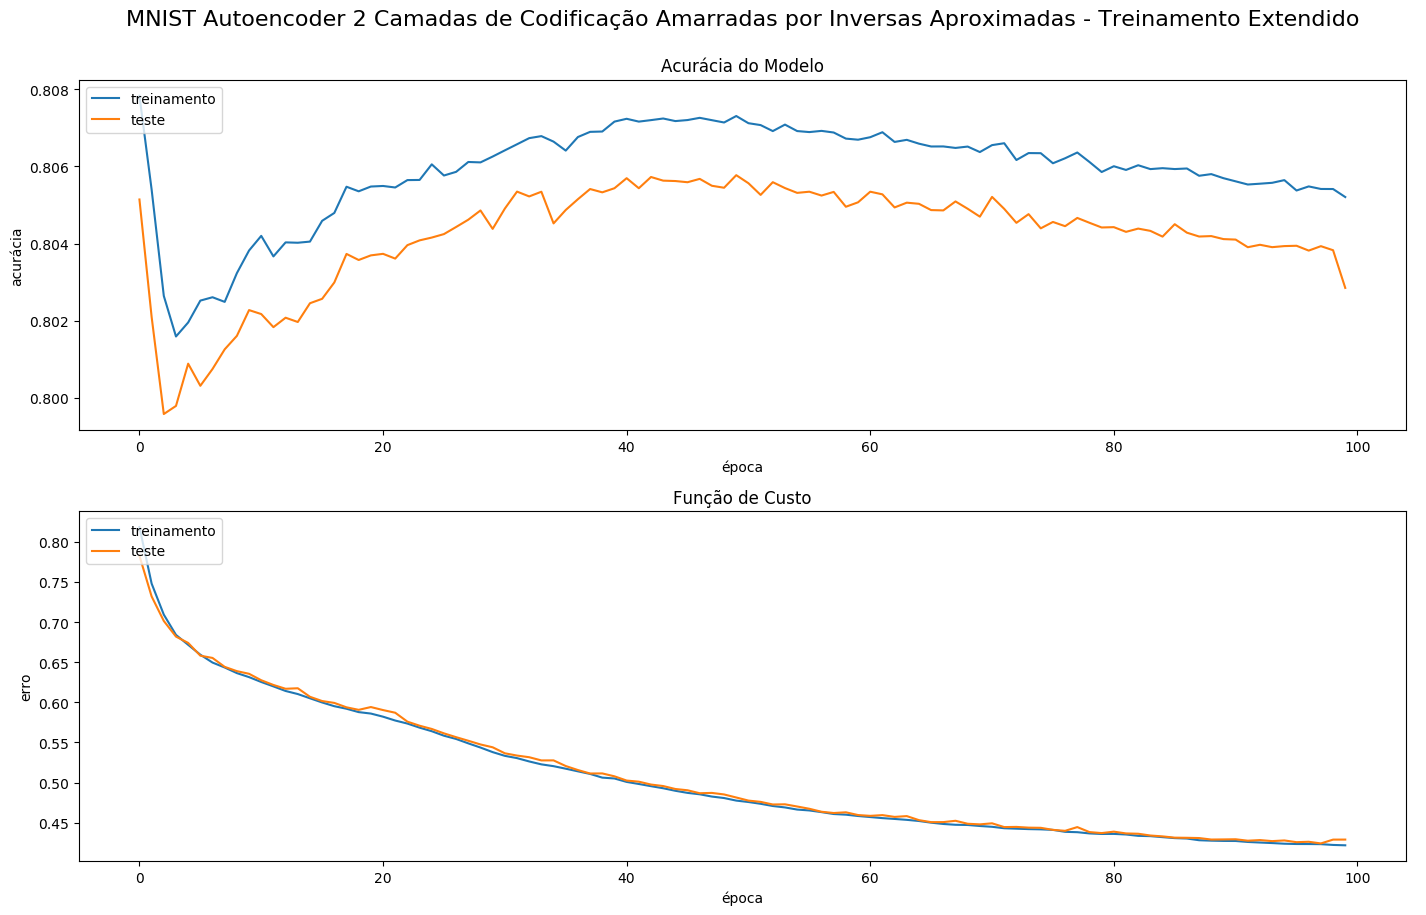
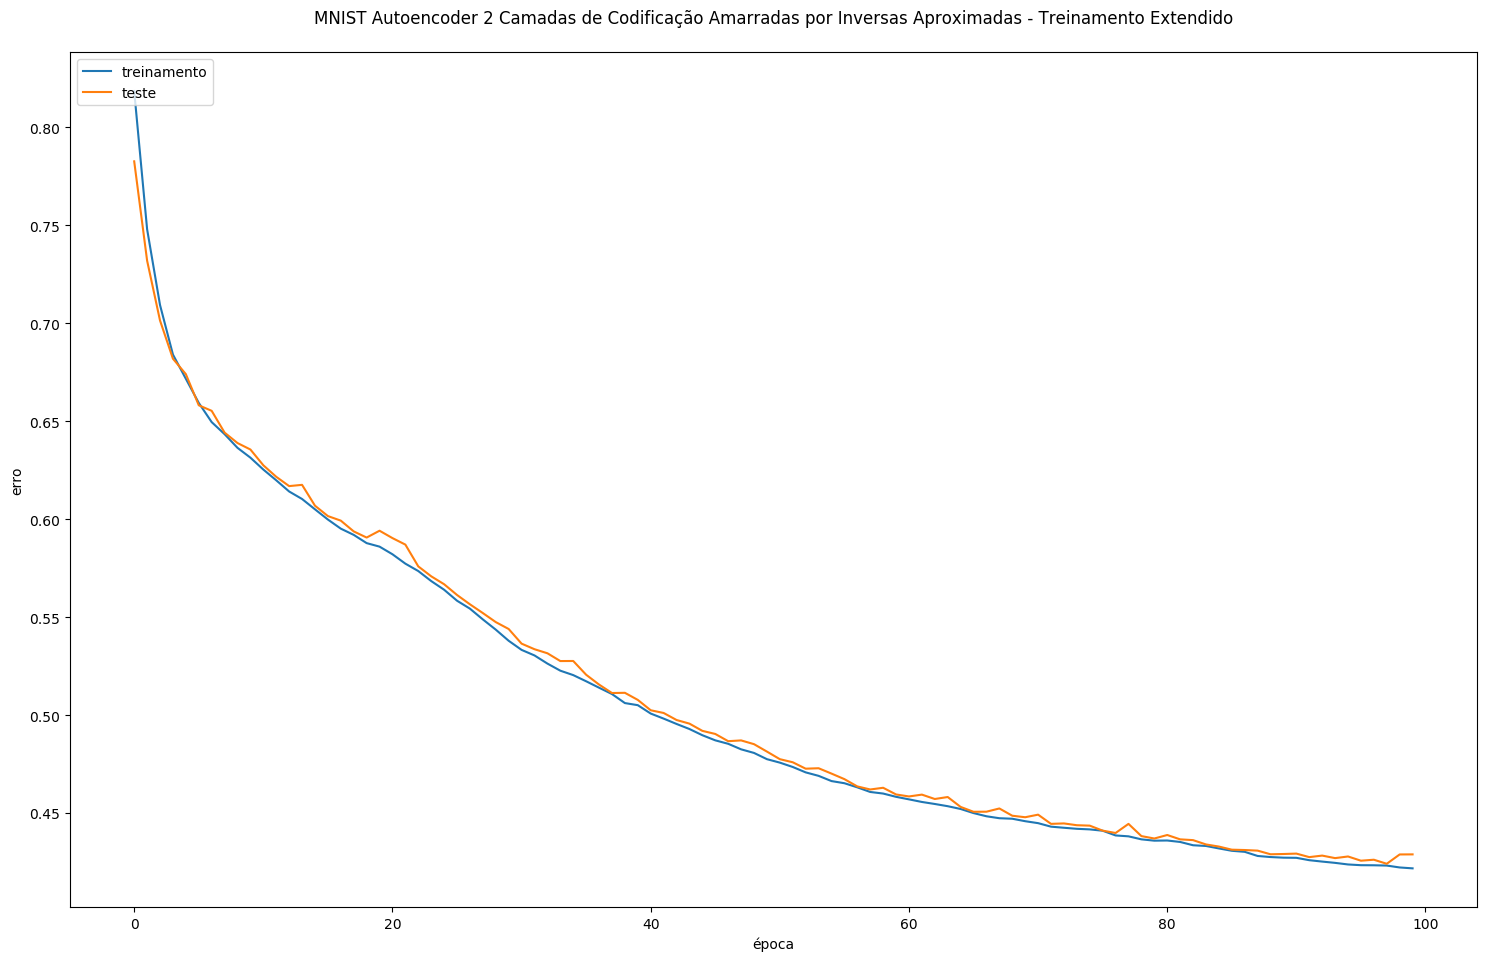
minor changes

diff --git a/main2.py b/main2.py
@@ -55,7 +55,7 @@ def test_autoencoder(tag, x_train, x_test):
 	decoded = Dense(784, activation='relu')(decoded)
 
 	autoencoder = Model(input_img, decoded)
-	autoencoder.compile(optimizer='adadelta', loss='binary_crossentropy', metrics = ['acc'])
+	autoencoder.compile(optimizer='adadelta', loss='binary_crossentropy')
 
 	##########
 
@@ -118,7 +118,7 @@ def test_conv_autoencoder(tag, x_train, x_test):
 	autoencoder = Model(input_img, decoded)
 
 	autoencoder.summary()
-	autoencoder.compile(optimizer='adadelta', loss='binary_crossentropy', metrics = ['acc'])
+	autoencoder.compile(optimizer='adadelta', loss='binary_crossentropy')
 
 	##########
 
@@ -199,7 +199,7 @@ def test_tied_autoencoder(tag, x_train, x_test):
 	decoded = TiedDenseLayer(output_dim = 784, tied_to = encoding_layer_1, tie_type = 'transpose', activation='relu')(decoded)
 
 	autoencoder = Model(input_img, decoded)
-	autoencoder.compile(optimizer='adadelta', loss='binary_crossentropy', metrics = ['acc'])
+	autoencoder.compile(optimizer='adadelta', loss='binary_crossentropy')
 
 	##########
 
@@ -260,7 +260,7 @@ def test_inverse_tied_autoencoder(tag, x_train, x_test):
 	decoded = TiedDenseLayer(output_dim = 784, tied_to = encoding_layer_1, tie_type = 'inverse', activation='relu')(decoded)
 
 	autoencoder = Model(input_img, decoded)
-	autoencoder.compile(optimizer='adadelta', loss='binary_crossentropy', metrics = ['acc'])
+	autoencoder.compile(optimizer='adadelta', loss='binary_crossentropy')
 
 	##########
 
@@ -302,20 +302,31 @@ def test_inverse_tied_autoencoder(tag, x_train, x_test):
 
 
 def test_tied_conv_autoencoder():
-	print("----- test_conv_autoencoder -----")
-	model_id = 'inverse_tied_transpose_1_128'
+	print("\n\n\n----- test_conv_autoencoder -----\n\n\n")
 
-	input_img = Input(shape=(784,))
+	model_id = 'conv'
 
-	encoding_layer = Dense(128, activation='relu')
-	encoded = encoding_layer(input_img)
-	# encoded = Dense(128, activation='relu')(encoded)
+	input_img = Input(shape=(28,28,1))
 
-	decoded = TiedDenseLayer(output_dim = 784, tied_to = encoding_layer, tie_type = 'inverse', activation='relu')(encoded)
-	# decoded = Dense(784, activation='relu')(decoded)
+	encoded = Conv2D(16, (3, 3), activation='relu', padding='same')(input_img)
+	encoded = Flatten()(encoded)
+	encoded = Dense(256, activation='relu')(encoded)
+	encoded = Dense(128, activation='relu')(encoded)
+
+	#####
+	
+	decoded = Dense(256, activation='relu')(encoded)
+	decoded = Dense(12544, activation='relu')(decoded)
+	decoded = Reshape((28,28,16))(decoded) # -1 is used to infer the size of the batch
+	decoded = Conv2D(16, (3, 3), activation='relu', padding='same')(decoded)
+	decoded = Conv2D(1, (3, 3), activation='sigmoid', padding='same')(decoded)
+	
+	#####
 
 	autoencoder = Model(input_img, decoded)
-	autoencoder.compile(optimizer='adadelta', loss='binary_crossentropy', metrics = ['acc'])
+
+	autoencoder.summary()
+	autoencoder.compile(optimizer='adadelta', loss='binary_crossentropy')
 
 	##########
 
@@ -324,25 +335,19 @@ def test_tied_conv_autoencoder():
 	##########
 	encoded_input = Input(shape=(128,))
 
-	deco = autoencoder.layers[-1](encoded_input)
-	# deco = autoencoder.layers[-1](deco)
+	deco = autoencoder.layers[-5](encoded_input)
+	deco = autoencoder.layers[-4](deco)
+	deco = autoencoder.layers[-3](deco)
+	deco = autoencoder.layers[-2](deco)
+	deco = autoencoder.layers[-1](deco)
 	decoder = Model(encoded_input, deco)
 
-	##########
-
-	flat_x_train, flat_x_test = flatten_input(x_train, x_test)
-
-	# csv_logger = CSVLogger('autoencoder_results/' + tag + '_normal_training.log')
-	# tb_callback = TensorBoard(log_dir='./tensorboard_logs/' + tag + '_normal_training',
-	# 							histogram_freq=1, write_graph=True, write_images=False)
-
-	history = autoencoder.fit(flat_x_train, flat_x_train,
+	history = autoencoder.fit(x_train, x_train,
 				epochs=50,
 				batch_size=256,
 				shuffle=True,
-				validation_data=(flat_x_test, flat_x_test)) # callbacks=[csv_logger, tb_callback]
+				validation_data=(x_test, x_test))
 
-	
 	autoencoder.save('autoencoder_results/' + model_id + '/' + tag + '_autoencoder.h5')
 	encoder.save('autoencoder_results/' + model_id + '/' + tag + '_encoder.h5')
 	decoder.save('autoencoder_results/' + model_id + '/' + tag + '_decoder.h5')
@@ -350,7 +355,7 @@ def test_tied_conv_autoencoder():
 	with open('autoencoder_results/' + model_id + '/' + tag + "_history.pckl", 'wb') as pckl:
 		pickle.dump(history.history, pckl)
 	
-	plot_loss_and_accuracy("MNIST Autoencoder 1 Camada de Codificação Amarrada por Inversas Aproximadas", history.history)
+	plot_loss_and_accuracy("MNIST Autoencoder Convolucional sem Amarração", history.history)
 	save_encoded_values(tag + '_' + model_id, preprocessed_x_train=flat_x_train,
 						trained_encoder=encoder, preprocessed_x_test=flat_x_test)
 
@@ -367,25 +372,11 @@ def plot_loss_and_accuracy(tag, history):
 	# history = pickle.load(open('autoencoder_results/normal/mnist_history.pckl', 'rb'))
 
 	fig = plt.figure(figsize=(15.0, 10.0)) # 1,
-	plt.title(tag + '\n\n', fontsize=16)
-	plt.axis('off')
-	# list all data in history
-	print(history.keys())
-	# summarize history for accuracy
-	sp = fig.add_subplot(211)
-	
-	sp.plot(history['acc'])
-	sp.plot(history['val_acc'])
-	sp.title.set_text('Acurácia do Modelo')
-	sp.set_ylabel('acurácia')
-	sp.set_xlabel('época')
-	sp.legend(['treinamento', 'teste'], loc='upper left')
-
-	sp = fig.add_subplot(212)
+	sp = fig.add_subplot(111)
 	# summarize history for loss
 	sp.plot(history['loss'])
 	sp.plot(history['val_loss'])
-	sp.title.set_text('Função de Custo')
+	sp.title.set_text(tag + '\n')
 	sp.set_ylabel('erro')
 	sp.set_xlabel('época')
 	sp.legend(['treinamento', 'teste'], loc='upper left')
@@ -435,7 +426,7 @@ if __name__ == '__main__':
 	np.random.seed(1) # a fixed seed guarantees results reproducibility 
 	start_time = time.time()
 
-	main1()
+	main2()
 	# print(K.image_data_format())
 
 	print("\n\nExecution time: %s seconds.\n\n" % (time.time() - start_time))
